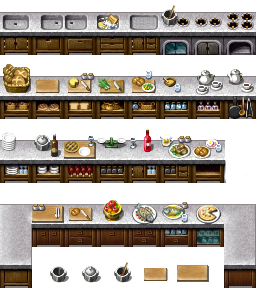
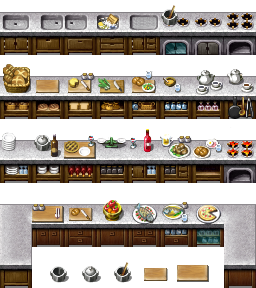
Stove now shows fire when cooking.

Changed region(s): [[0.875, 0.4688, 1.0, 0.6562]]

diff --git a/src/Game/World/Restaurant.cpp b/src/Game/World/Restaurant.cpp
@@ -52,9 +52,10 @@ void Restaurant::initItems(){
 void Restaurant::initCounters(){
     int counterWidth = 96;
     int yOffset = 500;
-    ofImage counterSheet, plateCounterImg, cheeseCounterImg, stoveCounterImg, lettuceCounterImg, emptyCounterImg, tomatoCounterImg, breadCounterImg;
+    ofImage counterSheet, plateCounterImg, cheeseCounterImg, stoveCounterImg, stoveCounterOnImg, lettuceCounterImg, emptyCounterImg, tomatoCounterImg, breadCounterImg;
     counterSheet.load("images/kitchen_cabinets_by_ayene_chan.png");
     stoveCounterImg.cropFrom(counterSheet, 224,12,32,43);//stoveTop
+    stoveCounterOnImg.cropFrom(counterSheet, 224,140,32,43);//stoveTop turned on
     lettuceCounterImg.cropFrom(counterSheet,96,76,32,43);//Vegetables
     emptyCounterImg.cropFrom(counterSheet,0,245,30,43);//Empty
     tomatoCounterImg.cropFrom(counterSheet,96,200,32,48);//fruit basket
@@ -62,8 +63,8 @@ void Restaurant::initCounters(){
     plateCounterImg.cropFrom(counterSheet,0,133,32,50);//plates
     breadCounterImg.cropFrom(counterSheet,0,63,34,56);//buns
     entityManager->addEntity(new BaseCounter(0,yOffset-16, counterWidth, 117, nullptr, plateCounterImg));
-    entityManager->addEntity( new BaseCounter(counterWidth,yOffset-7, counterWidth,108, cheese, cheeseCounterImg));
-    entityManager->addEntity(new StoveCounter(counterWidth*2,yOffset, counterWidth, 102, rawBurger, burger, stoveCounterImg));
+    entityManager->addEntity(new BaseCounter(counterWidth,yOffset-7, counterWidth,108, cheese, cheeseCounterImg));
+    entityManager->addEntity(new StoveCounter(counterWidth*2,yOffset, counterWidth, 102, rawBurger, burger, stoveCounterImg, stoveCounterOnImg));
     entityManager->addEntity(new BaseCounter(counterWidth*3, yOffset, counterWidth, 102, lettuce, lettuceCounterImg));
     entityManager->addEntity(new BaseCounter(counterWidth*4,yOffset, counterWidth, 102, nullptr, emptyCounterImg));
     entityManager->addEntity(new BaseCounter(counterWidth*5, yOffset -10, counterWidth, 113, tomato, tomatoCounterImg));

diff --git a/src/Game/Entities/Static/StoveCounter.cpp b/src/Game/Entities/Static/StoveCounter.cpp
@@ -1,11 +1,8 @@
 #include "StoveCounter.h"
 
-StoveCounter::StoveCounter(int x, int y, int width, int height, 
-Item* rawItem, Item* cookedItem, ofImage sprite) 
-: BaseCounter(x, y, width, height, rawItem, sprite) {
-    this->cookedItem = cookedItem;
-    this->rawItem = rawItem;
-}
+StoveCounter::StoveCounter(int x, int y, int width, int height, Item* rawItem, Item* cookedItem, ofImage sprite, ofImage activeSprite) 
+: BaseCounter(x, y, width, height, rawItem, sprite), 
+cookedItem(cookedItem), rawItem(rawItem), sprite(sprite), activeSprite(activeSprite) {}
 
 Item* StoveCounter::getItem() {
     // When isCooked == false, it returns a nullptr, causing the player to call the interact method
@@ -19,6 +16,7 @@ Item* StoveCounter::getItem() {
 // Called when there is no cooked burger and the player clicks e
 void StoveCounter::interact() {
     isCooking = true;
+    setSprite(activeSprite);
 }
 
 void StoveCounter::tick() {
@@ -27,8 +25,9 @@ void StoveCounter::tick() {
     if(isCooking && ticks % ticksToCook == 0)
         cookingProgress++;
 
-    if(cookingProgress == 100) {
+    if(isCooking && cookingProgress == 100) {
         setItem(cookedItem);
+        setSprite(sprite);
         isCooking = false;
         isCooked = true;
     }
@@ -51,6 +50,7 @@ void StoveCounter::render() {
 void StoveCounter::reset() {
     cookingProgress = 0;
     setItem(rawItem);
+    setSprite(sprite);
     isCooking = false;
     isCooked = false;
 }

diff --git a/src/Game/Entities/Static/StoveCounter.h b/src/Game/Entities/Static/StoveCounter.h
@@ -13,9 +13,11 @@ class StoveCounter: public BaseCounter {
         int progressBarH = 10;
         ofColor completeColor = ofColor(21, 136, 255);
         ofColor progressingColor = ofColor(255);
+        ofImage activeSprite;
+        ofImage sprite;
 
     public:
-        StoveCounter(int x, int y, int width, int height, Item* rawItem, Item* cookedItem, ofImage sprite);
+        StoveCounter(int x, int y, int width, int height, Item* rawItem, Item* cookedItem, ofImage sprite, ofImage activeSprite);
         Item* getItem();
         void interact();
         void render();

diff --git a/src/Game/Entities/Entity.h b/src/Game/Entities/Entity.h
@@ -22,4 +22,5 @@ class Entity {
     int getHeight() { return height; }
     void setY(int y) { this->y = y; }
     void setX(int x) { this->x = x; }
+    void setSprite(ofImage sprite) { this->sprite = sprite; }
 };

diff --git a/src/Game/Entities/Static/BaseCounter.cpp b/src/Game/Entities/Static/BaseCounter.cpp
@@ -23,3 +23,7 @@ void BaseCounter::showItem(){
         item->sprite.draw(x+width/2 -25, y-30, 50, 30);
     }
 }
+
+void BaseCounter::setSprite(ofImage sprite) {
+    Entity::setSprite(sprite);
+}

diff --git a/src/Game/Entities/Static/BaseCounter.h b/src/Game/Entities/Static/BaseCounter.h
@@ -17,4 +17,5 @@ class BaseCounter: public Entity {
         void setItem(Item* item);
         virtual void interact();
         void showItem();
+        void setSprite(ofImage sprite);
 };
